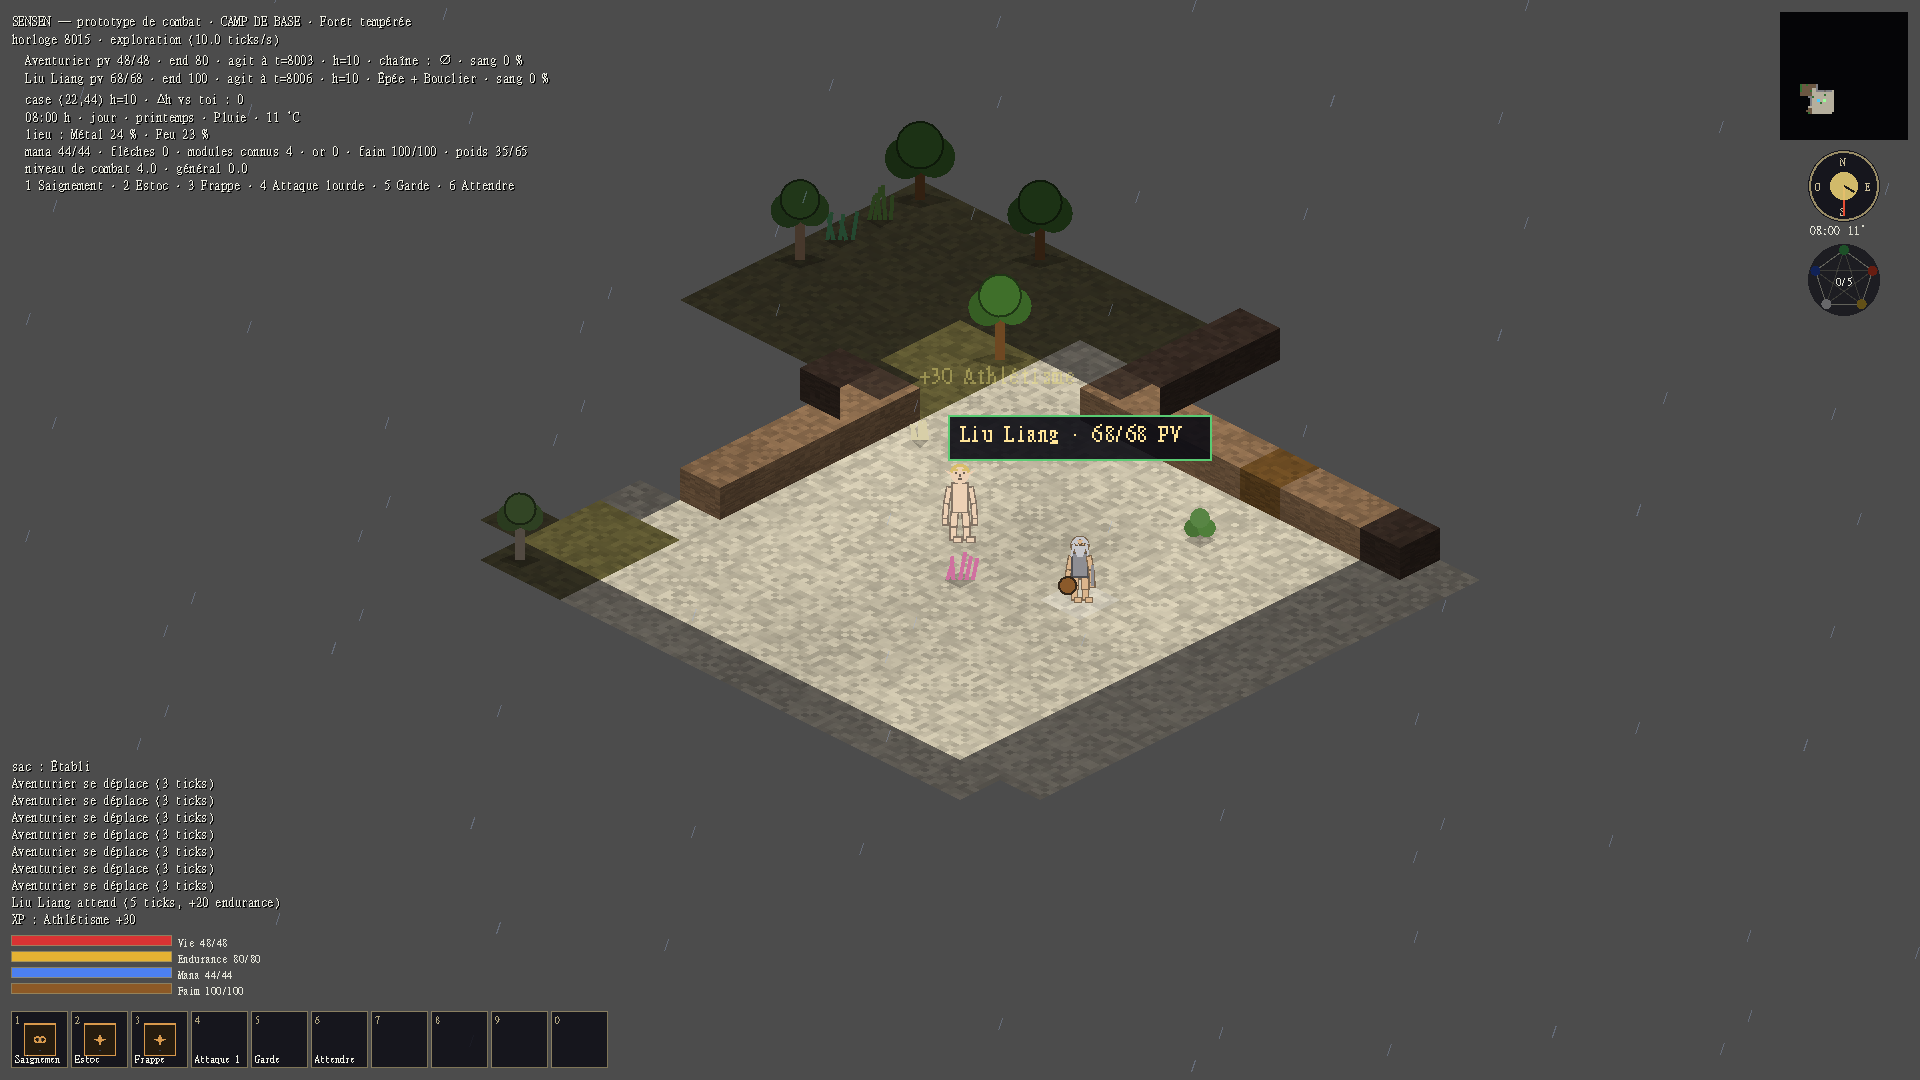
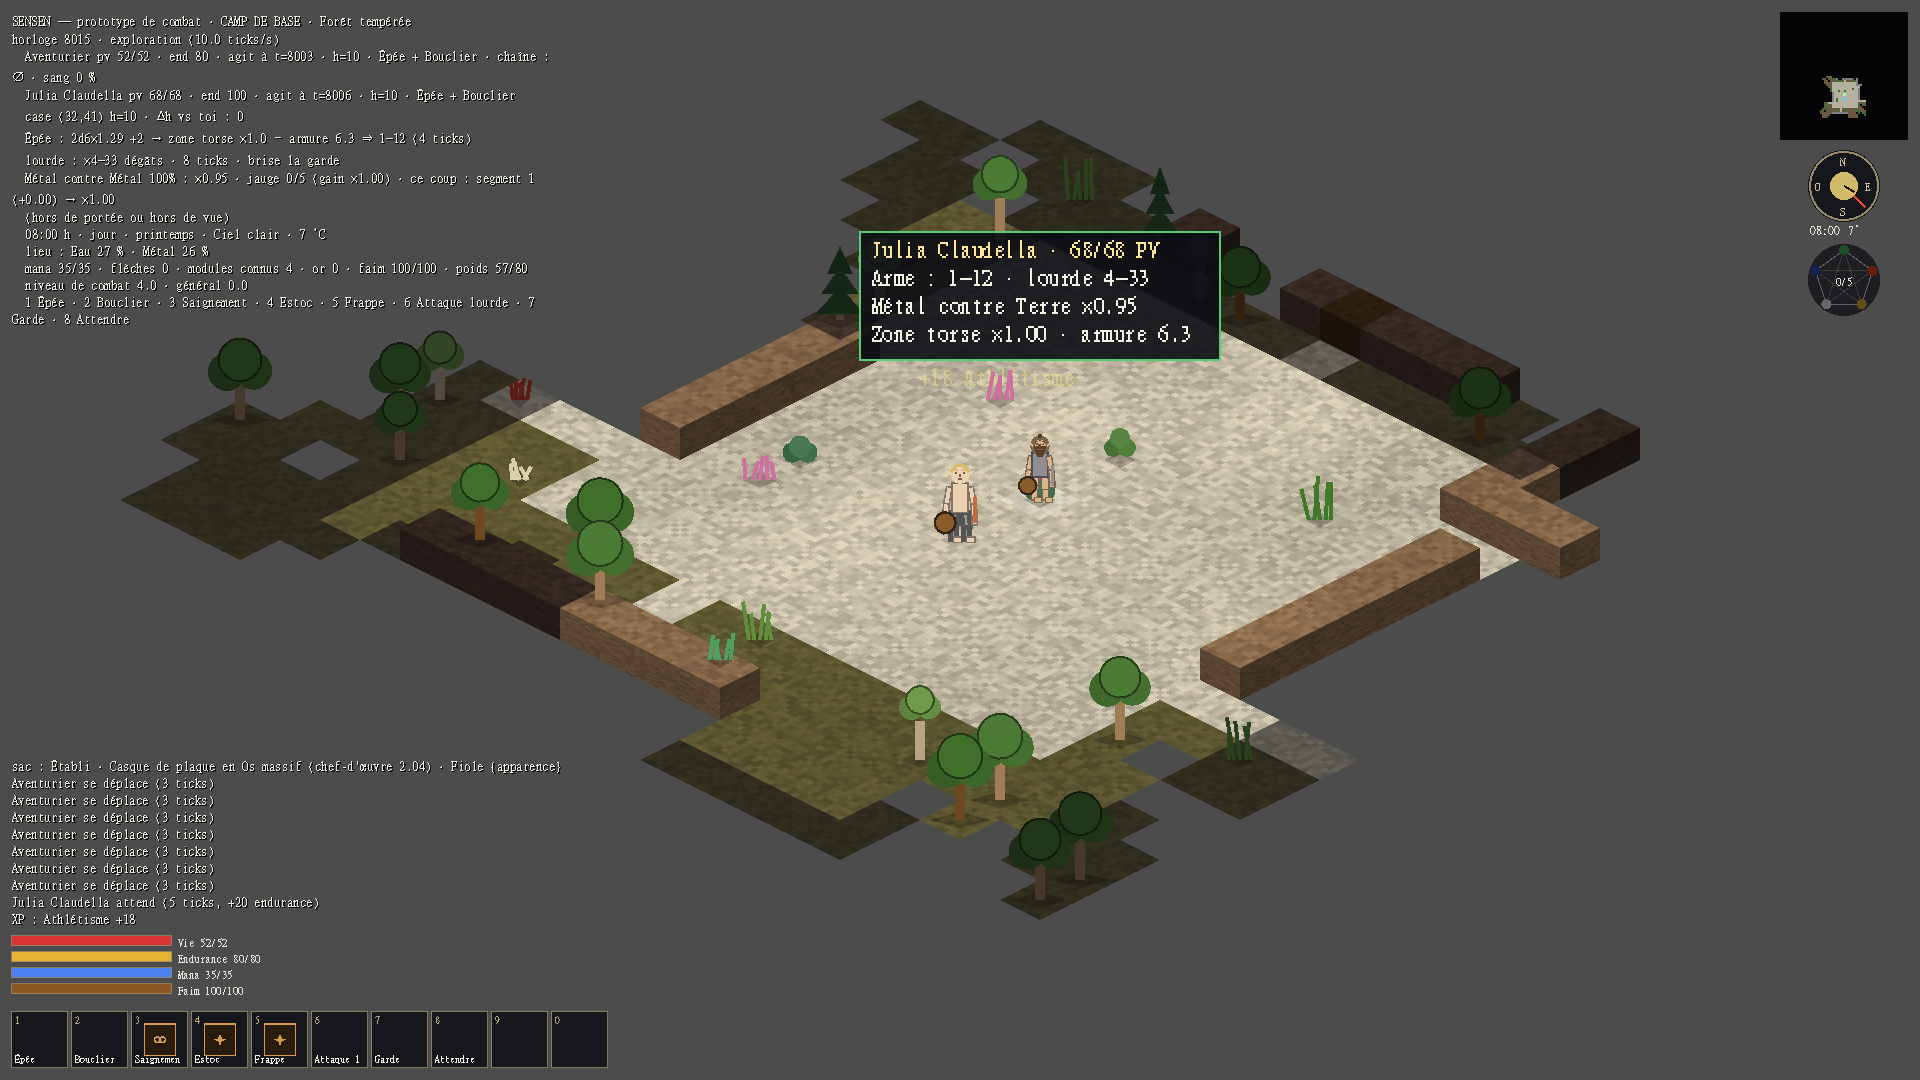
Les captures d'ecran tombaient dans un monde tire au hasard : quatorze scenes rejouees sur une graine fixe
Le drapeau --graine manquait : chaque lancement de l'outil generait un
autre monde, d'ou le « village » sans habitants et la carte de cendres.
main.gd respecte maintenant une graine imposee. L'outil sait aussi jouer
la scene avant de la prendre : --loot equipe, --modules apprend, --sorts
compose, --talents pose les glyphes, --carte passe en dernier pour
montrer l'explore. --village cherche 70 cellules et exige quatre PNJ.

diff --git a/docs/08 - Technique/Écrans d'interface.md b/docs/08 - Technique/Écrans d'interface.md
@@ -122,6 +122,10 @@ Inventaire+équipement (avec poids), Craft (recettes des stations à portée, [[
 > [!success] Codé le 2026-09-01 — la création en trois volets (designer, point 66)
 > La liste avait grossi jusqu'à vingt-cinq lignes : nom, race, classe, stats, seize traits du visage, cinq curseurs, poses, départ. Elle se scinde en **trois volets** qu'une ligne d'onglets ouvre à ← → : **Personnage** (nom, race, classe, signe, points et stats, lieu de départ), **Apparence** (les seize traits, les deux palettes et les cinq réglages continus), **Pose** (l'action à mettre en scène et le pantin). L'aperçu, le portrait et les trois jauges restent visibles dans les trois — on voit toujours ce qu'on modifie. « Commencer » aussi : on valide depuis n'importe quel volet.
 
+> [!success] Codé le 2026-09-01 — les quatorze captures jouées avant d'être prises (designer)
+> **Instruction** : « refais toutes les captures d'écran, n'oublie pas remplir et équiper l'inventaire avant, pareil pour le composeur de sort, explorer avant la capture d'une cellule etc, qu'on voit le plus possible du jeu ». `capture.gd` gagne de quoi **jouer la scène** avant de la photographier : `--loot N` (assemble N objets et équipe ceux qui ont un slot), `--modules` (apprend tout le catalogue), `--sorts "forme,noyau|…"` (compose des capacités dans la barre), `--marcher N`, `--talents`, et surtout **`--graine N`** — les captures tombaient jusque-là dans un monde tiré au hasard à chaque lancement, ce qui explique le « village » qui n'en était pas un et la carte de cendres : `main.gd` respecte désormais une graine imposée au lieu de la réécrire. `--carte` est déplacé en toute fin de recette pour que la carte montre ce qui a été exploré, et `--village` cherche jusqu'à 70 cellules en exigeant **au moins quatre habitants**. Toutes les scènes de monde partagent la graine 4242 : même géographie d'une image à l'autre.
+
+
 ## Liens
 - **Dépend de** : [[Direction artistique]], [[Localisation]]
 - **Alimente** : [[Combat tactique sur grille]], [[Craft compositionnel]], [[Habitat des PNJ]], [[Entretien et taxes]]

diff --git a/README.md b/README.md
@@ -46,7 +46,7 @@ Dans les écrans : flèches et Entrée, plus les raccourcis lettres **affichés 
 
 ## En images
 
-Captures prises par `scenes/tests/capture.tscn` (tout est dessiné par code — aucun asset) ; elles sont dans [`captures/`](captures/), prises **en plein écran** (`--plein-ecran`, 1920×1080) et se rafraîchissent avec `capture.tscn -- --plein-ecran --sortie captures/<nom>.png` quand un écran change. Les scènes sont **jouées avant d'être photographiées** : `--explorer N` descend dans le donjon, `--marcher N` parcourt les alentours, `--loot N` remplit le sac d'objets assemblés et équipe le personnage — une capture montre un jeu vécu, pas un décor vide.
+Captures prises par `scenes/tests/capture.tscn` (tout est dessiné par code — aucun asset) ; elles sont dans [`captures/`](captures/), prises **en plein écran** (`--plein-ecran`, 1920×1080) et se rafraîchissent avec `capture.tscn -- --plein-ecran --sortie captures/<nom>.png` quand un écran change. Les scènes sont **jouées avant d'être photographiées** : `--graine N` fixe le monde, `--explorer N` descend dans le donjon, `--marcher N` parcourt les alentours, `--loot N` remplit le sac d'objets assemblés et équipe le personnage, `--modules` apprend tout le catalogue, `--sorts` compose des capacités, `--talents` pose brèches et affûts, `--creature`, `--chaine`, `--visee` mettent un combat en scène — une capture montre un jeu vécu, pas un décor vide.
 
 | | |
 |---|---|
